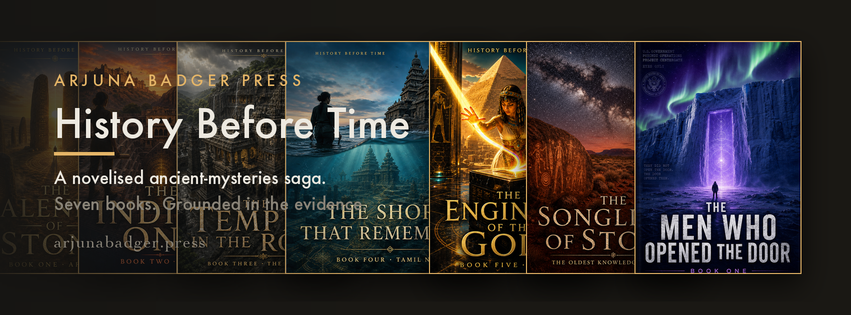
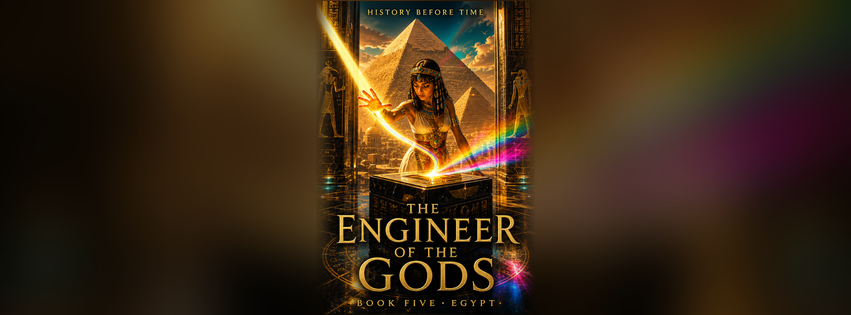
brand: Facebook cover — Engineer of the Gods, full-frame
Replaces the cover collage with the single most striking cover (Engineer of
the Gods) shown full-frame: the real cover intact and dominant in the
mobile-safe centre, its own art bled out to the wide sides as a darkened,
blurred cinematic frame so the whole 851x315 banner is one epic image. Just
the cover — no badge, no text overlay. 2x master alongside.

diff --git a/brand/facebook/build_cover.py b/brand/facebook/build_cover.py
@@ -1,161 +1,77 @@
 #!/usr/bin/env python3
-"""Compose the Facebook cover: a collage of the History Before Time covers + house typography.
+"""Facebook cover: the Engineer of the Gods cover, full-frame and epic. Just the cover.
 
-Same house language as the LinkedIn banner (warm near-black ground #161513, gold eyebrow, the
-crest) but the scene is the seven full HISTORY BEFORE TIME novel covers, fanned across the right as
-a cinematic shelf, with the series title + press wordmark on the left.
+A Facebook cover is a wide landscape (851x315) and the book cover is a tall portrait, so we can't
+simply crop a thin slice without losing the art. Instead we fill the banner with the cover's OWN
+image: the cover is scaled to the full banner height and centred, and its background is extended to
+the wide sides by a mirrored, blurred, darkened bleed — so the whole thing reads as one cinematic
+full-frame image with the real cover intact and dominant in the mobile-safe centre.
 
-Facebook's cover crops differently per device. We compose on the recommended 851x315 upload size
-and keep all type inside a centre-safe band (~640px wide) so nothing important is cropped on mobile.
 Writes the exact 851x315 cover plus a 2x master.
 """
 from pathlib import Path
 
-from PIL import Image, ImageDraw, ImageFont, ImageFilter
+from PIL import Image, ImageEnhance, ImageFilter
 
 HERE = Path(__file__).resolve().parent
 BRAND = HERE.parent
-ASSETS = BRAND / "assets"
 BOOKS = BRAND.parent / "books" / "history-before-time" / "books"
 
 W, H = 851, 315
 SCALE = 2
-BG = (22, 21, 19)            # #161513 warm near-black
-GOLD = (229, 181, 103)       # #E5B567
-BONE = (237, 233, 224)       # #EDE9E0
-MUT = (138, 132, 120)        # #8a8478
 
-# The seven full HISTORY BEFORE TIME novels (registry HBT order, novellas excluded), by cover folder.
-COVERS = [
-    "book1-africa", "book2-india", "book3-india-deccan",
-    "book4-india-tamil", "book5-egypt", "australia-outback", "project-stargate",
-]
+# The hero cover — Engineer of the Gods (the most striking cover).
+COVER = BOOKS / "book5-egypt" / "design" / "cover.png"
 
 out = HERE / "facebook-cover.png"
 out_2x = HERE / "facebook-cover@2x.png"
 
 
-def _font(names, size):
-    for n in names:
-        try:
-            return ImageFont.truetype(n, size)
-        except Exception:
-            continue
-    return ImageFont.load_default()
-
-
-def _try_fonts(size, *, bold=False):
-    # Prefer the house faces; fall back to common macOS fonts so the script runs anywhere.
-    if bold:
-        return _font([
-            "/System/Library/Fonts/Supplemental/Futura.ttc",
-            "/System/Library/Fonts/HelveticaNeue.ttc",
-            "/Library/Fonts/Arial Bold.ttf",
-            "/System/Library/Fonts/Supplemental/Arial Bold.ttf",
-        ], size)
-    return _font([
-        "/System/Library/Fonts/Supplemental/Futura.ttc",
-        "/System/Library/Fonts/HelveticaNeue.ttc",
-        "/Library/Fonts/Arial.ttf",
-        "/System/Library/Fonts/Supplemental/Arial.ttf",
-    ], size)
-
-
-def _serif(size):
-    return _font([
-        "/System/Library/Fonts/Supplemental/Cochin.ttc",
-        "/System/Library/Fonts/Supplemental/Georgia.ttf",
-        "/System/Library/Fonts/Times.ttc",
-    ], size)
-
-
-def _tracked(draw, xy, text, font, fill, tracking):
-    """Draw letter-spaced text (Pillow has no native tracking)."""
-    x, y = xy
-    for ch in text:
-        draw.text((x, y), ch, font=font, fill=fill)
-        x += draw.textlength(ch, font=font) + tracking
-    return x
-
-
-def _cover_shadowed(path: Path, target_h: int) -> Image.Image:
-    """Load a cover, scale to target height, add a soft drop shadow + thin gold edge."""
-    img = Image.open(path).convert("RGB")
-    cw, ch = img.size
-    scale = target_h / ch
-    img = img.resize((int(cw * scale), target_h), Image.LANCZOS)
-    cw, ch = img.size
-    # Thin gold keyline.
-    edge = Image.new("RGB", (cw, ch), GOLD)
-    border = max(2, int(target_h * 0.006))
-    inner = img.crop((0, 0, cw, ch)).resize((cw - 2 * border, ch - 2 * border), Image.LANCZOS)
-    edge.paste(inner, (border, border))
-    img = edge
-    # Compose onto a transparent tile with a drop shadow.
-    pad = int(target_h * 0.12)
-    tile = Image.new("RGBA", (cw + pad * 2, ch + pad * 2), (0, 0, 0, 0))
-    shadow = Image.new("RGBA", tile.size, (0, 0, 0, 0))
-    sd = ImageDraw.Draw(shadow)
-    sd.rectangle([pad, pad + int(pad * 0.4), pad + cw, pad + ch + int(pad * 0.4)],
-                 fill=(0, 0, 0, 170))
-    shadow = shadow.filter(ImageFilter.GaussianBlur(pad * 0.5))
-    tile.alpha_composite(shadow)
-    tile.alpha_composite(Image.merge("RGBA", (*img.split(), Image.new("L", img.size, 255))), (pad, pad))
-    return tile
-
-
 def main():
     sw, sh = W * SCALE, H * SCALE
-    canvas = Image.new("RGB", (sw, sh), BG)
+    cover = Image.open(COVER).convert("RGB")
 
-    # Subtle vignette so the centre reads warmer than the edges (matches the brand banners).
-    vig = Image.new("L", (sw, sh), 0)
-    vd = ImageDraw.Draw(vig)
-    vd.ellipse([-sw * 0.2, -sh * 0.6, sw * 1.2, sh * 1.6], fill=60)
-    vig = vig.filter(ImageFilter.GaussianBlur(sw * 0.12))
-    warm = Image.new("RGB", (sw, sh), (38, 33, 24))
-    canvas = Image.composite(warm, canvas, vig)
+    # 1) Background bleed: scale the cover to COVER the whole wide banner (crop overflow), then blur
+    #    + darken it so it fills the sides without competing with the sharp cover on top.
+    cw, ch = cover.size
+    cover_ar = cw / ch
+    banner_ar = sw / sh
+    if cover_ar < banner_ar:                 # cover narrower than banner → match width, crop height
+        bw = sw
+        bh = int(sw / cover_ar)
+    else:
+        bh = sh
+        bw = int(sh * cover_ar)
+    bg = cover.resize((bw, bh), Image.LANCZOS)
+    bg = bg.crop(((bw - sw) // 2, (bh - sh) // 2, (bw - sw) // 2 + sw, (bh - sh) // 2 + sh))
+    bg = bg.filter(ImageFilter.GaussianBlur(sw * 0.03))
+    bg = ImageEnhance.Brightness(bg).enhance(0.45)
+    bg = ImageEnhance.Color(bg).enhance(0.9)
 
-    # ── The collage: seven covers fanned across the right, with top/bottom breathing room ──
-    cover_h = int(sh * 0.74)             # leaves margin top & bottom (covers + their shadow tile)
-    overlap = int(cover_h * 0.52)        # tighter step so all 7 fit; each still clearly reads
-    tiles = [_cover_shadowed(BOOKS / c / "design" / "cover.png", cover_h) for c in COVERS]
-    step = [t.width - overlap for t in tiles]
-    total_w = sum(step[:-1]) + tiles[-1].width
-    # The fan occupies the right ~62%; keep the last cover fully inside the right edge.
-    right_pad = int(tiles[-1].width * 0.10)
-    x = sw - total_w - right_pad
-    y = (sh - tiles[0].height) // 2
-    for i, t in enumerate(tiles):
-        canvas.paste(t, (x, y), t)
-        x += step[i] if i < len(tiles) - 1 else 0
+    # 2) The sharp full cover, scaled to the banner height, centred. (Slight inset so a sliver of
+    #    the cinematic bleed frames it top & bottom — feels intentional, not letterboxed.)
+    target_h = int(sh * 0.995)
+    scale = target_h / ch
+    fg = cover.resize((int(cw * scale), target_h), Image.LANCZOS)
+    fw, fh = fg.size
 
-    # ── Left-side gradient scrim so the type stays legible over any cover bleed ──
-    scrim = Image.new("RGBA", (sw, sh), (0, 0, 0, 0))
-    sd = ImageDraw.Draw(scrim)
-    scrim_w = int(sw * 0.52)
-    for i in range(scrim_w):
-        a = int(235 * (1 - i / scrim_w) ** 1.4)
-        sd.line([(i, 0), (i, sh)], fill=(22, 21, 19, a))
-    canvas = Image.alpha_composite(canvas.convert("RGBA"), scrim).convert("RGB")
+    canvas = bg.copy()
+    pos = ((sw - fw) // 2, (sh - fh) // 2)
+    canvas.paste(fg, pos)
 
-    # ── House typography (left, inside the mobile-safe band) ──
-    d = ImageDraw.Draw(canvas)
-    lx = int(54 * SCALE)
-    eyebrow = _try_fonts(int(15 * SCALE), bold=True)
-    title = _try_fonts(int(40 * SCALE), bold=True)
-    sub = _try_fonts(int(17 * SCALE))
-    tagline = _serif(int(17 * SCALE))
+    # 3) Feather the vertical seams where the sharp cover meets the bleed, so there's no hard line.
+    seam = Image.new("L", (sw, sh), 0)
+    left = pos[0]
+    right = pos[0] + fw
+    feather = int(fw * 0.04)
+    from PIL import ImageDraw
+    sd = ImageDraw.Draw(seam)
+    sd.rectangle([left + feather, 0, right - feather, sh], fill=255)
+    seam = seam.filter(ImageFilter.GaussianBlur(feather * 0.7))
+    sharp_full = bg.copy()
+    sharp_full.paste(fg, pos)
+    canvas = Image.composite(sharp_full, bg, seam)
 
-    _tracked(d, (lx, int(70 * SCALE)), "ARJUNA BADGER PRESS", eyebrow, GOLD, int(4 * SCALE))
-    d.text((lx, int(96 * SCALE)), "History Before Time", font=title, fill=BONE)
-    # gold rule
-    d.rectangle([lx, int(152 * SCALE), lx + int(60 * SCALE), int(155 * SCALE)], fill=GOLD)
-    d.text((lx, int(166 * SCALE)), "A novelised ancient-mysteries saga.", font=sub, fill=BONE)
-    d.text((lx, int(192 * SCALE)), "Seven books. Grounded in the evidence.", font=sub, fill=MUT)
-    _tracked(d, (lx, int(232 * SCALE)), "arjunabadger.press", tagline, MUT, int(1 * SCALE))
-
-    # Save 2x master + the exact Facebook size.
     canvas.save(out_2x)
     canvas.resize((W, H), Image.LANCZOS).save(out, optimize=True)
     print(f"wrote {out.name} ({out.stat().st_size // 1024} KB) and {out_2x.name}")
